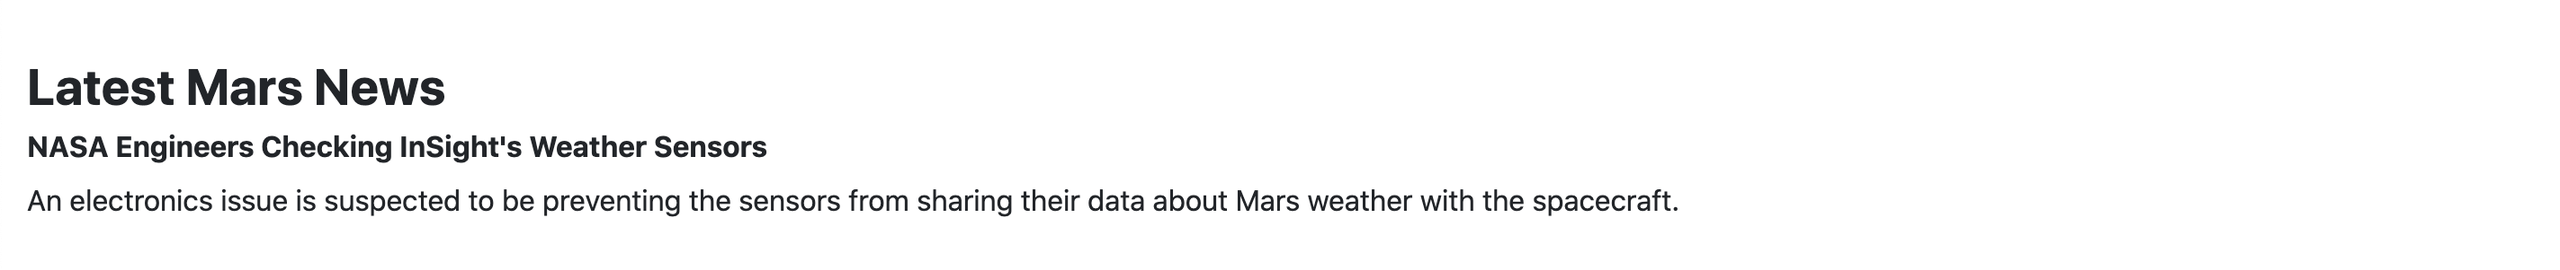
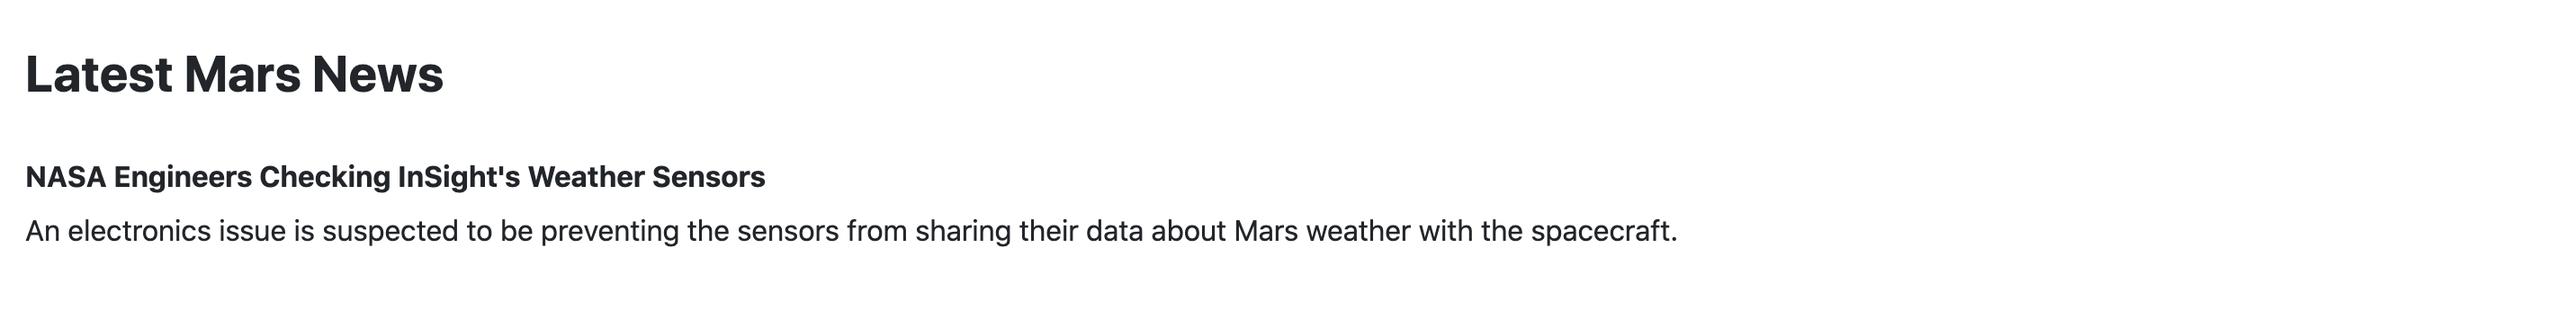
Updated index.html file

Changed region(s): [[0.0, 0.6877, 0.6493, 0.8073], [0.0, 0.1794, 0.1855, 0.3887], [0.0, 0.5083, 0.3092, 0.6279]]

diff --git a/Missions_to_Mars/templates/index.html b/Missions_to_Mars/templates/index.html
@@ -19,7 +19,7 @@
             <div class = "col-md-12">
                 <h3><strong>Latest Mars News</strong></h3>
                 <br>
-                <h6><strong>{{ mars_data.news_title }}</strong></h6>
+                <h5><strong>{{ mars_data.news_title }}</strong></h5>
                 <p>{{ mars_data.news_p }}</p>
             </div>
         </div>
